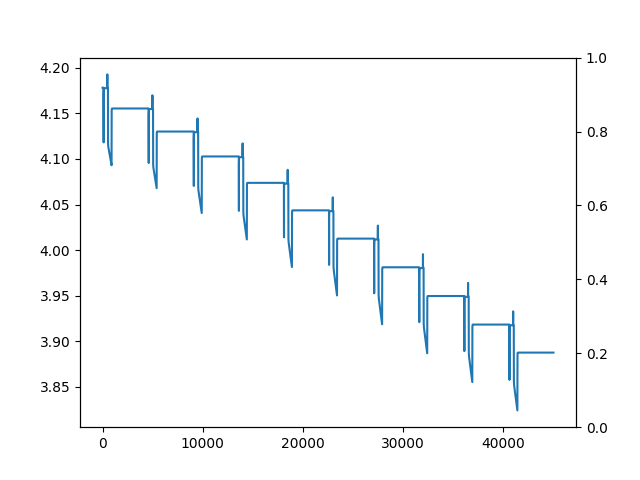
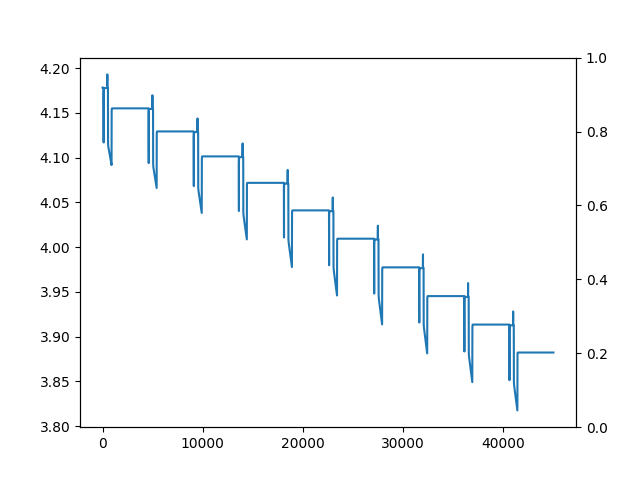
fixing comments

diff --git a/physics/models/battery/battery_model.py b/physics/models/battery/battery_model.py
@@ -2,32 +2,52 @@ import core.core
 import numpy as np
 import core
 from scipy import optimize
-from .battery_config import BatteryModelConfig
+from physics.models.battery.battery_config import BatteryModelConfig
 
 
 
 class BatteryModel:
     """
-    Class representing the Thevenin equivalent battery model with modular parameters
+    Class representing the Thevenin equivalent battery model with modular parameters.
 
     Attributes:
-        max_voltage (float): maximum voltage of the BrightSide battery pack (V)
-        min_voltage (float): minimum voltage of the BrightSide battery pack (V)
-        max_current_capacity (float): nominal capacity of the BrightSide battery pack (Ah)
-        max_energy_capacity (float): nominal energy capacity of the BrightSide battery pack (Wh)
+        R_P (float): Polarization resistance of the battery (Ohms).
+        C_P (float): Polarization capacitance of the battery (Farads).
+        max_current_capacity (float): Nominal capacity of the battery (Ah).
+        max_energy_capacity (float): Maximum energy capacity of the battery (Wh).
+        nominal_charge_capacity (float): Total charge capacity of the battery (Coulombs).
+        state_of_charge (float): Current state of charge (dimensionless, 0.0 to 1.0).
+        U_oc_coefficients (np.ndarray): Coefficients for the open-circuit voltage polynomial.
+        R_0_coefficients (np.ndarray): Coefficients for the ohmic resistance polynomial.
+        U_oc (callable): Function for open-circuit voltage as a function of state of charge (V).
+        R_0 (callable): Function for ohmic resistance as a function of state of charge (Ohms).
+        U_P (float): Current polarization potential (V).
+        U_L (float): Current terminal voltage (V).
+        tau (float): Time constant of the battery model (seconds).
 
-        state_of_charge (float): instantaneous battery state-of-charge (0.00 - 1.00)
-        discharge_capacity (float): instantaneous amount of charge extracted from battery (Ah)
-        voltage (float): instantaneous voltage of the battery (V)
-        stored_energy (float): instantaneous energy stored in the battery (Wh)
+    Methods:
+        __init__(battery_config, state_of_charge):
+            Initializes the battery model with configuration parameters and initial state of charge.
+        
+        _evolve(power, T):
+            Updates the battery's state of charge, polarization potential, and terminal voltage
+            based on power input and elapsed time.
+
+        update_array(delta_energy_array, tick, rust=True):
+            Computes the battery's state of charge and voltage over time using an array of energy changes.
+
+        _update_array_py(delta_energy_array, tick):
+            Performs array-based energy calculations using Python (fallback for when Rust is disabled).
     """
 
     def __init__(self, battery_config: BatteryModelConfig, state_of_charge = 1):
 
         """
-        Constructor for BrightSide battery class.
+        Constructor for the BatteryModel class.
 
-        :param float state_of_charge: initial battery state of charge
+        Parameters:
+            battery_config (BatteryModelConfig): Configuration object containing the battery's parameters and data.
+            state_of_charge (float): Initial state of charge of the battery (default is 1.0, fully charged).
         """
 
         # ----- Load Config -----
@@ -63,7 +83,19 @@ class BatteryModel:
         self.charge_current = lambda P, U_oc, U_P, R_0: (-(U_oc + U_P) + np.sqrt(np.power((U_oc + U_P), 2) + 4 * R_0 * P)) / (2 * R_0)
 
 
-    def _evolve(self, power: float, T: float):
+    def _evolve(self, power: float, tick: float):
+        """
+        Updates the battery state given the power and time elapsed.
+
+        Parameters:
+            power (float): Power applied to the battery (W). Positive for charging, negative for discharging.
+            tick (float): Time interval over which the power is applied (seconds).
+
+        Updates:
+            state_of_charge (float): New state of charge after applying the power.
+            U_P (float): Updated polarization potential (V).
+            U_L (float): Updated terminal voltage (V).
+        """
         soc = self.state_of_charge          # State of Charge (dimensionless, 0 < soc < 1)
         U_P = self.U_P                      # Polarization Potential (V)
         R_P = self.R_P                      # Polarization Resistance (Ohms)
@@ -74,8 +106,8 @@ class BatteryModel:
 
         I = self.discharge_current(power, U_oc, U_P, R_0) if power <= 0 else self.charge_current(power, U_oc, U_P, R_0)  # Current (A)
 
-        new_soc = soc + (I * T / Q)
-        new_U_P = np.exp(-T / self.tau) * U_P + I * R_P * (1 - np.exp(-T / self.tau))
+        new_soc = soc + (I * tick / Q)
+        new_U_P = np.exp(-tick / self.tau) * U_P + I * R_P * (1 - np.exp(-tick / self.tau))
 
         self.state_of_charge = new_soc
         self.U_P = new_U_P
@@ -83,17 +115,18 @@ class BatteryModel:
 
     def update_array(self, delta_energy_array, tick, rust=True):
         """
-        Performs energy calculations with NumPy arrays
+        Computes the battery's state of charge, voltage, and stored energy over time.
+        This function is a wrapper for the Rust-based and Python-based implementations.
 
-        :param cumulative_energy_array: a NumPy array containing the cumulative energy changes at each time step
-        experienced by the battery
+        Parameters:
+            delta_energy_array (np.ndarray): Array of energy changes (J) at each time step.
+            tick (float): Time interval for each step (seconds).
+            rust (bool): If True, use Rust-based calculations (default is True).
 
-        :return: soc_array – a NumPy array containing the battery state of charge at each time step
-
-        :return: voltage_array – a NumPy array containing the voltage of the battery at each time step
-
-        :return: stored_energy_array– a NumPy array containing the energy stored in the battery at each time step
-
+        Returns:
+            tuple:
+                - soc_array (np.ndarray): Array of state-of-charge values at each time step.
+                - voltage_array (np.ndarray): Array of voltage values at each time step.
         """
         
         if rust:
@@ -116,17 +149,16 @@ class BatteryModel:
 
     def _update_array_py(self, delta_energy_array, tick):
         """
-        Performs energy calculations with NumPy arrays
+        Performs energy calculations using Python (fallback method if Rust is disabled).
 
-        :param cumulative_energy_array: a NumPy array containing the cumulative energy changes at each time step
-        experienced by the battery
+        Parameters:
+            delta_energy_array (np.ndarray): Array of energy changes (J) at each time step.
+            tick (float): Time interval for each step (seconds).
 
-        :return: soc_array – a NumPy array containing the battery state of charge at each time step
-
-        :return: voltage_array – a NumPy array containing the voltage of the battery at each time step
-
-        :return: stored_energy_array– a NumPy array containing the energy stored in the battery at each time step
-
+        Returns:
+            tuple:
+                - soc_array (np.ndarray): Array of state-of-charge values at each time step.
+                - voltage_array (np.ndarray): Array of voltage values at each time step.
         """
         soc = np.empty_like(delta_energy_array, dtype=float)
         voltage = np.empty_like(delta_energy_array, dtype=float)

diff --git a/examples/battery_model_examples/battery_model_example.py b/examples/battery_model_examples/battery_model_example.py
@@ -23,7 +23,7 @@ if __name__ == "__main__":
 
     power_array = np.tile(hppc_pulse, 10)
 
-    soc, voltage = battery_model.update_array(power_array, 1.0, rust=False)
+    soc, voltage = battery_model.update_array(power_array, 1.0, rust=True)
 
     fig, ax = plt.subplots()
 
